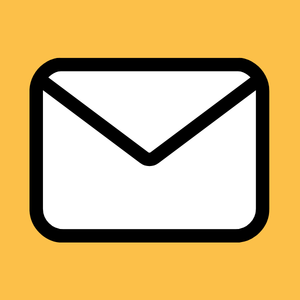
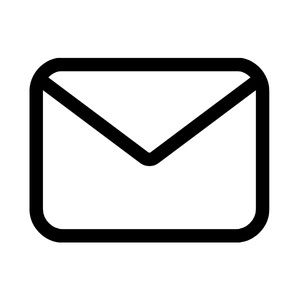
文字サイズ・位置調整、アイコン背景透過

diff --git a/public/index.html b/public/index.html
@@ -81,7 +81,7 @@
     .benefit-summary {
       margin-top: 64px;
       text-align: center;
-      font-size: clamp(36px, 4vw, 58px);
+      font-size: 22px;
       line-height: 1.35;
       font-weight: 700;
       color: #ffffff;
@@ -305,6 +305,11 @@
       height: auto;
     }
 
+    .mail-circle-text {
+      display: block;
+      margin-top: 24px;
+    }
+
     .system-summary {
       margin-top: 60px;
       text-align: center;
@@ -375,7 +380,7 @@
 
       .benefit-summary {
         margin-top: 50px;
-        font-size: clamp(34px, 8vw, 52px);
+        font-size: 22px;
       }
 
       .system-flow {
@@ -608,9 +613,11 @@
 
         <div class="flow-step">
           <div class="mail-circle">
-            オーナー様や<br>
-            管理会社様へ<br>
-            メールで通知
+            <span class="mail-circle-text">
+              オーナー様や<br>
+              管理会社様へ<br>
+              メールで通知
+            </span>
             <img src="./images/HP_ic4_mail.png" alt="メール通知" class="mail-icon">
           </div>
         </div>
